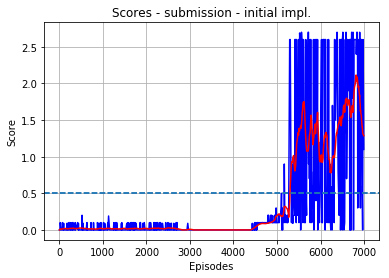
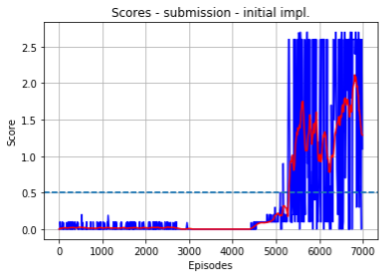
[UPDATE]: proj-3 trainers and fixed images
Changes:

* Updated trainers for proj. 3 with minor changes.
* Added images for report with white background for dark mode.

Changed region(s): [[0.0, 0.0288, 0.9871, 0.9784]]

diff --git a/project3-collaboration/maddpg_tennis.py b/project3-collaboration/maddpg_tennis.py
@@ -402,15 +402,15 @@ def train( env, seed, num_episodes ) :
                         _batchJointActionsNext = _batchJointActionsNext.reshape( _batchJointActionsNext.shape[0], -1 )
 
                     for iactor in range( NUM_AGENTS ) :
-
-                        #---------------------- TRAIN CRITICS  --------------------#
-
                         # extract local observations to be fed to the actors, ...
                         # as well as local rewards and dones to be used for local 
                         # q-targets computation using critics
                         _batchLocalObservations = _observations[:,iactor,:]
                         _batchLocalRewards = _rewards[:,iactor,:]
                         _batchLocalDones = _dones[:,iactor,:]
+
+                        #---------------------- TRAIN CRITICS  --------------------#
+
                         # compute current q-values for the joint-actions taken ...
                         # at joint-observations using the critic, as explained ...
                         # in the MADDPG algorithm:
@@ -524,7 +524,8 @@ def test( env, seed, num_episodes ) :
                               env.action_space.shape,
                               seed ) for _ in range( NUM_AGENTS ) ]
     for iactor, _actorNet in enumerate( actorsNets ) :
-        _actorNet.load_state_dict( torch.load( './results/maddpg_actor_reacher_' + str( iactor ) + '_' + TRAINING_SESSION_ID + '.pth' ) )
+        ## _actorNet.load_state_dict( torch.load( './results/maddpg_actor_reacher_' + str( iactor ) + '_' + TRAINING_SESSION_ID + '.pth' ) )
+        _actorNet.load_state_dict( torch.load( os.path.join( SESSION_FOLDER, 'maddpg_actor_reacher_' + str(iactor) + '.pth' ) ) )
         _actorNet.eval()
 
     progressbar = tqdm( range( 1, num_episodes + 1 ), desc = 'Testing>' )
@@ -613,7 +614,7 @@ if __name__ == '__main__' :
     env = UnityEnvWrapper( executableFullPath,
                            numAgents = 2, 
                            mode = 'training' if TRAIN else 'testing', 
-                           workerID = 200, 
+                           workerID = 100, 
                            seed = SEED )
 
     env.seed( SEED )

diff --git a/project3-collaboration/maddpg_tennis_original.py b/project3-collaboration/maddpg_tennis_original.py
@@ -41,8 +41,8 @@ SESSION_FOLDER          = 'results/session_default' # folder where to save the r
 REPLAY_BUFFER_SIZE      = 500000                    # size of the replay memory
 BATCH_SIZE              = 256                       # batch size of data to grab for learning
 LEARNING_RATE_ACTOR     = 0.001                     # learning rate used for actor network
-LEARNING_RATE_CRITIC    = 0.0004                     # learning rate used for the critic network
-TAU                     = 0.0008                     # soft update factor used for target-network updates
+LEARNING_RATE_CRITIC    = 0.0004                    # learning rate used for the critic network
+TAU                     = 0.0008                    # soft update factor used for target-network updates
 TRAIN_FREQUENCY_STEPS   = 1                         # learn every 10 steps (if there is data)
 TRAIN_NUM_UPDATES       = 1                         # number of updates to do when doing a learning
 
@@ -431,14 +431,15 @@ def train( env, seed, num_episodes ) :
                                                                     for iactorIndx in range( NUM_AGENTS ) ], dim = 1 )
                             _batchJointActionsNext = _batchJointActionsNext.reshape( _batchJointActionsNext.shape[0], -1 )
 
-                        #---------------------- TRAIN CRITICS  --------------------#
-
                         # extract local observations to be fed to the actors, ...
                         # as well as local rewards and dones to be used for local 
                         # q-targets computation using critics
                         _batchLocalObservations = _observations[:,iactor,:]
                         _batchLocalRewards = _rewards[:,iactor,:]
                         _batchLocalDones = _dones[:,iactor,:]
+
+                        #---------------------- TRAIN CRITICS  --------------------#
+
                         # compute current q-values for the joint-actions taken ...
                         # at joint-observations using the critic, as explained ...
                         # in the MADDPG algorithm:
